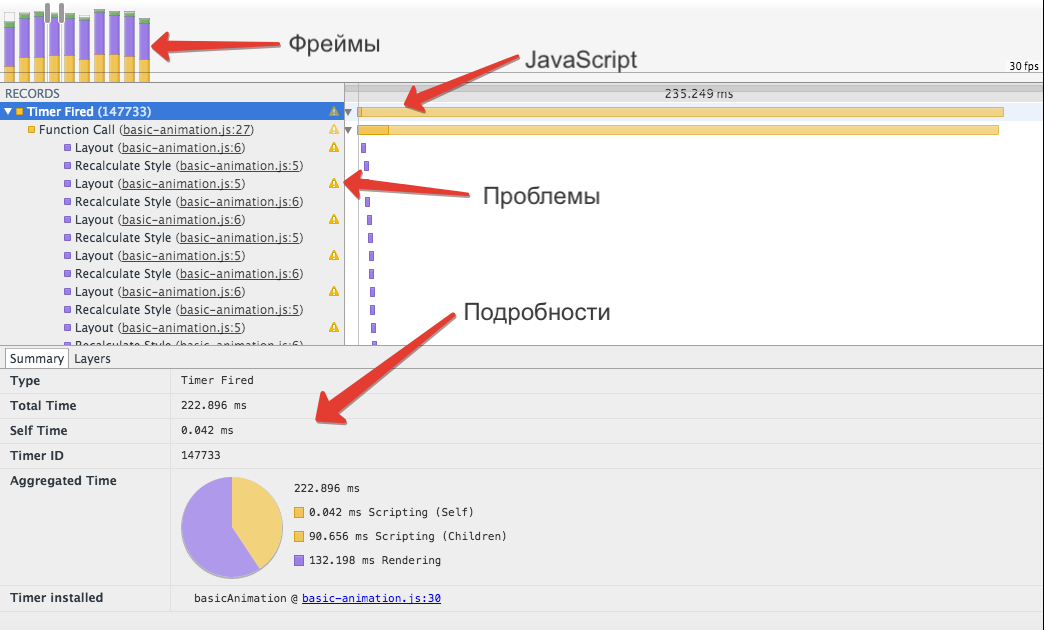
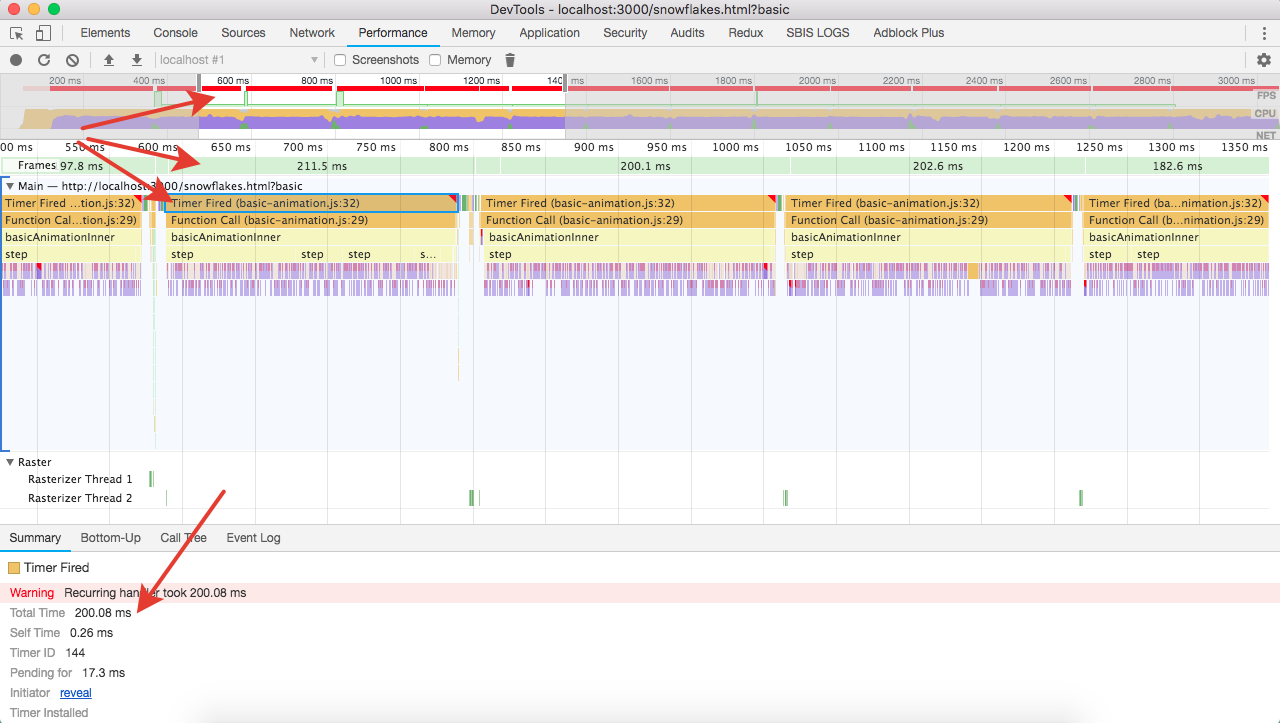
Финалка (свежие скрины под свежий DevTools)

diff --git a/js/gpu2-animation.js b/js/gpu2-animation.js
@@ -1,47 +1,50 @@
-function animate() {
-   var col = document.querySelectorAll('.snowflake');
-   var winHeights = window.innerHeight;
-   var calculatedData = [].slice.call(col).map(function readRects(item){
-      var rect = item.getBoundingClientRect();
-      return {
-         div: item,
-         steady: item.classList.contains('steady'),
-         rect: {
-            left: rect.left,
-            top: rect.top,
-            bottom: rect.bottom
-         }
-      }
-   }).map(function calculateNewRects(item){
-      item.rect.top = item.rect.top + item.div.stepY;
-      item.rect.left = Math.sin((item.div.x += item.div.stepX));
-      if (item.rect.bottom > winHeights) {
-         item.mustStop = true;
-      }
-      return item;
-   });
-   calculatedData.forEach(function applyRects(item){
-      if (item.mustStop) {
-         if (!item.steady) {
-            item.div.classList.add('steady');
-            setTimeout(remove.bind(null, item.div), 1000);
-         }
-      } else {
-         item.div.style.top = '0px';
-         item.div.style.transform = 'translate3d(' + item.rect.left + 'px,' +  item.rect.top + 'px, 0)';
-      }
-   });
-   calculatedData.filter(function filterLaying(item){
-      return item.div.classList.contains('drop');
-   }).forEach(function removeLaying(item){
-      item.div.classList.remove('drop');
-      item.div.classList.remove('steady');
-      item.div.style.top = '0px';
-      item.div.style.transform = '';
-   });
-   requestAnimationFrame(animate);
-}
+var gpu2Animation = (function() {
 
-function remove(snowflake) {
-   snowflake.classList.add('drop');
-}
+    return function animate() {
+        var col = document.querySelectorAll('.snowflake');
+        var winHeights = window.innerHeight;
+        var calculatedData = [].slice.call(col).map(function readRects(item) {
+            var rect = item.getBoundingClientRect();
+            return {
+                div: item,
+                steady: item.classList.contains('steady'),
+                rect: {
+                    left: rect.left,
+                    top: rect.top,
+                    bottom: rect.bottom
+                }
+            }
+        }).map(function calculateNewRects(item) {
+            item.rect.top = item.rect.top + item.div.stepY;
+            item.rect.left = Math.sin((item.div.x += item.div.stepX));
+            if (item.rect.bottom > winHeights) {
+                item.mustStop = true;
+            }
+            return item;
+        });
+        calculatedData.forEach(function applyRects(item) {
+            if (item.mustStop) {
+                if (!item.steady) {
+                    item.div.classList.add('steady');
+                    setTimeout(remove.bind(null, item.div), 1000);
+                }
+            } else {
+                item.div.style.top = '0px';
+                item.div.style.transform = 'translate3d(' + item.rect.left + 'px,' + item.rect.top + 'px, 0)';
+            }
+        });
+        calculatedData.filter(function filterLaying(item) {
+            return item.div.classList.contains('drop');
+        }).forEach(function removeLaying(item) {
+            item.div.classList.remove('drop');
+            item.div.classList.remove('steady');
+            item.div.style.top = '0px';
+            item.div.style.transform = '';
+        });
+        requestAnimationFrame(animate);
+    };
+
+    function remove(snowflake) {
+        snowflake.classList.add('drop');
+    }
+})();

diff --git a/index.html b/index.html
@@ -199,8 +199,8 @@
 
 	<section class="slide"><div>
 		<h2>Будем мерять FPS</h2>
-		<img src="../../images/show-fps-meter.gif" width="100%"/>
-		<p style="text-align: center;" class="next">
+		<img src="../../images/show-fps-meter.png" width="100%"/>
+		<p style="text-align: center; position: absolute; right: 100px; bottom: 20px;" class="next">
 			<img src="../../images/fps-meter.png"/>
 		</p>
 	</div></section>
@@ -216,8 +216,7 @@
 
 	<section class="slide"><div>
 		<h2>Почему так получилось?</h2>
-		<p>Запишем все происходящее</p>
-		<img src="../../images/recording-profile.gif" width="100%" />
+		<p>Запишем все происходящее используя вкладку Performance в DevTools</p>
 	</div></section>
 
 	<section class="slide cover"><div>
@@ -225,7 +224,11 @@
 	</div></section>
 
 	<section class="slide shout grow"><div>
-		<h2>223 ms!</h2>
+		<h2>200 ms!</h2>
+	</div></section>
+
+	<section class="slide cover"><div>
+		<img src="../../images/timeline-panel-zoom.png"/>
 	</div></section>
 
 	<section class="slide shout"><div>
@@ -326,7 +329,7 @@
 	</div></section>
 
 	<section class="slide cover"><div>
-		<img src="../../images/timeline-panel.png"/>
+		<img src="../../images/timeline-panel-zoom.png"/>
 	</div></section>
 
 	<section class="slide"><div>
@@ -335,6 +338,7 @@
 			<li><mark class="code-property">getComputedStyle</mark>(<mark class="code-variable">elt</mark>)</li>
 			<li><mark class="code-variable">elt</mark>.<mark class="code-reserved">style</mark>.???</li>
 			<li><mark class="code-variable">elt</mark>.<mark class="code-property">getBoundingClientRect</mark>()</li>
+			<li>См. <a href="https://csstriggers.com/">csstriggers.com</a></li>
 		</ul>
 	</div></section>
 
@@ -399,8 +403,15 @@
 
 	<section class="slide"><div>
 		<h2>Еще раз посмотрим на Timeline</h2>
-		<img src="../../images/too-much-paint-2.png" width="100%" />
-		<p class="next">Включаем "Show paint rectangles"</p>
+	</div></section>
+
+	<section class="slide cover"><div>
+		<img src="../../images/too-much-paint-2.png"/>
+	</div></section>
+
+	<section class="slide"><div>
+		<h2>Еще раз посмотрим на Timeline</h2>
+		<p>Включаем "Show paint rectangles"</p>
 	</div></section>
 
 	<section class="slide cover"><div>

diff --git a/snowflakes.html b/snowflakes.html
@@ -28,7 +28,7 @@
     <script src="js/jquery-animation.js"></script>
     <script src="js/fastandfurious-animation.js"></script>
     <script src="js/fast-animation.js"></script>
-    <script src="js/gpu-animation.js"></script>
+    <script src="js/gpu2-animation.js"></script>
 </head>
 <body onload="w=window,l=w.location,letItSnow(+l.hash.substr(1), w[l.search.substr(1) + 'Animation'])">
     <h2>Количество объектов на экране: <span id="counter"></span></h2>
